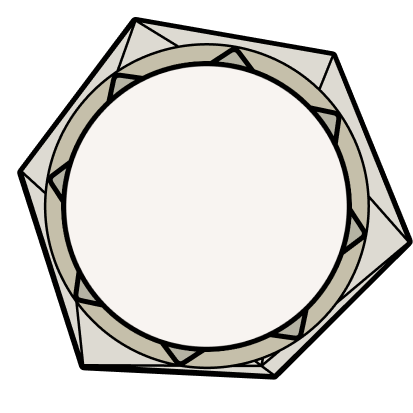
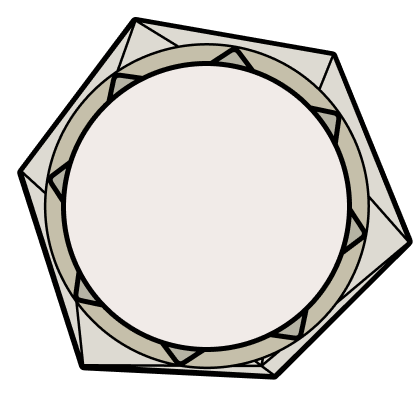
Fixed encounter badge display for light mode.

diff --git a/src/sheets/quadrone/actor/EncounterSheet.svelte b/src/sheets/quadrone/actor/EncounterSheet.svelte
@@ -83,7 +83,7 @@
         </div>
 
         {#if context.difficulty.label}
-          <div class="difficulty-block theme-dark">
+          <div class={['difficulty-block', context.themeSettings.useHeaderBackground ? 'theme-dark' : '']}>
             <span class="label difficulty font-label-medium color-text-default">
               {context.difficulty.label}
             </span>

diff --git a/src/less/quadrone/encounter.less b/src/less/quadrone/encounter.less
@@ -264,7 +264,7 @@
     }
   }
 
-  &.theme-light {
+  &.theme-light.sheet-parchment {
     .difficulty-block {
       &::before {
         @badge_encounter_difficulty : '../../modules/tidy5e-sheet/images/badge_encounter_difficulty_light.webp';
